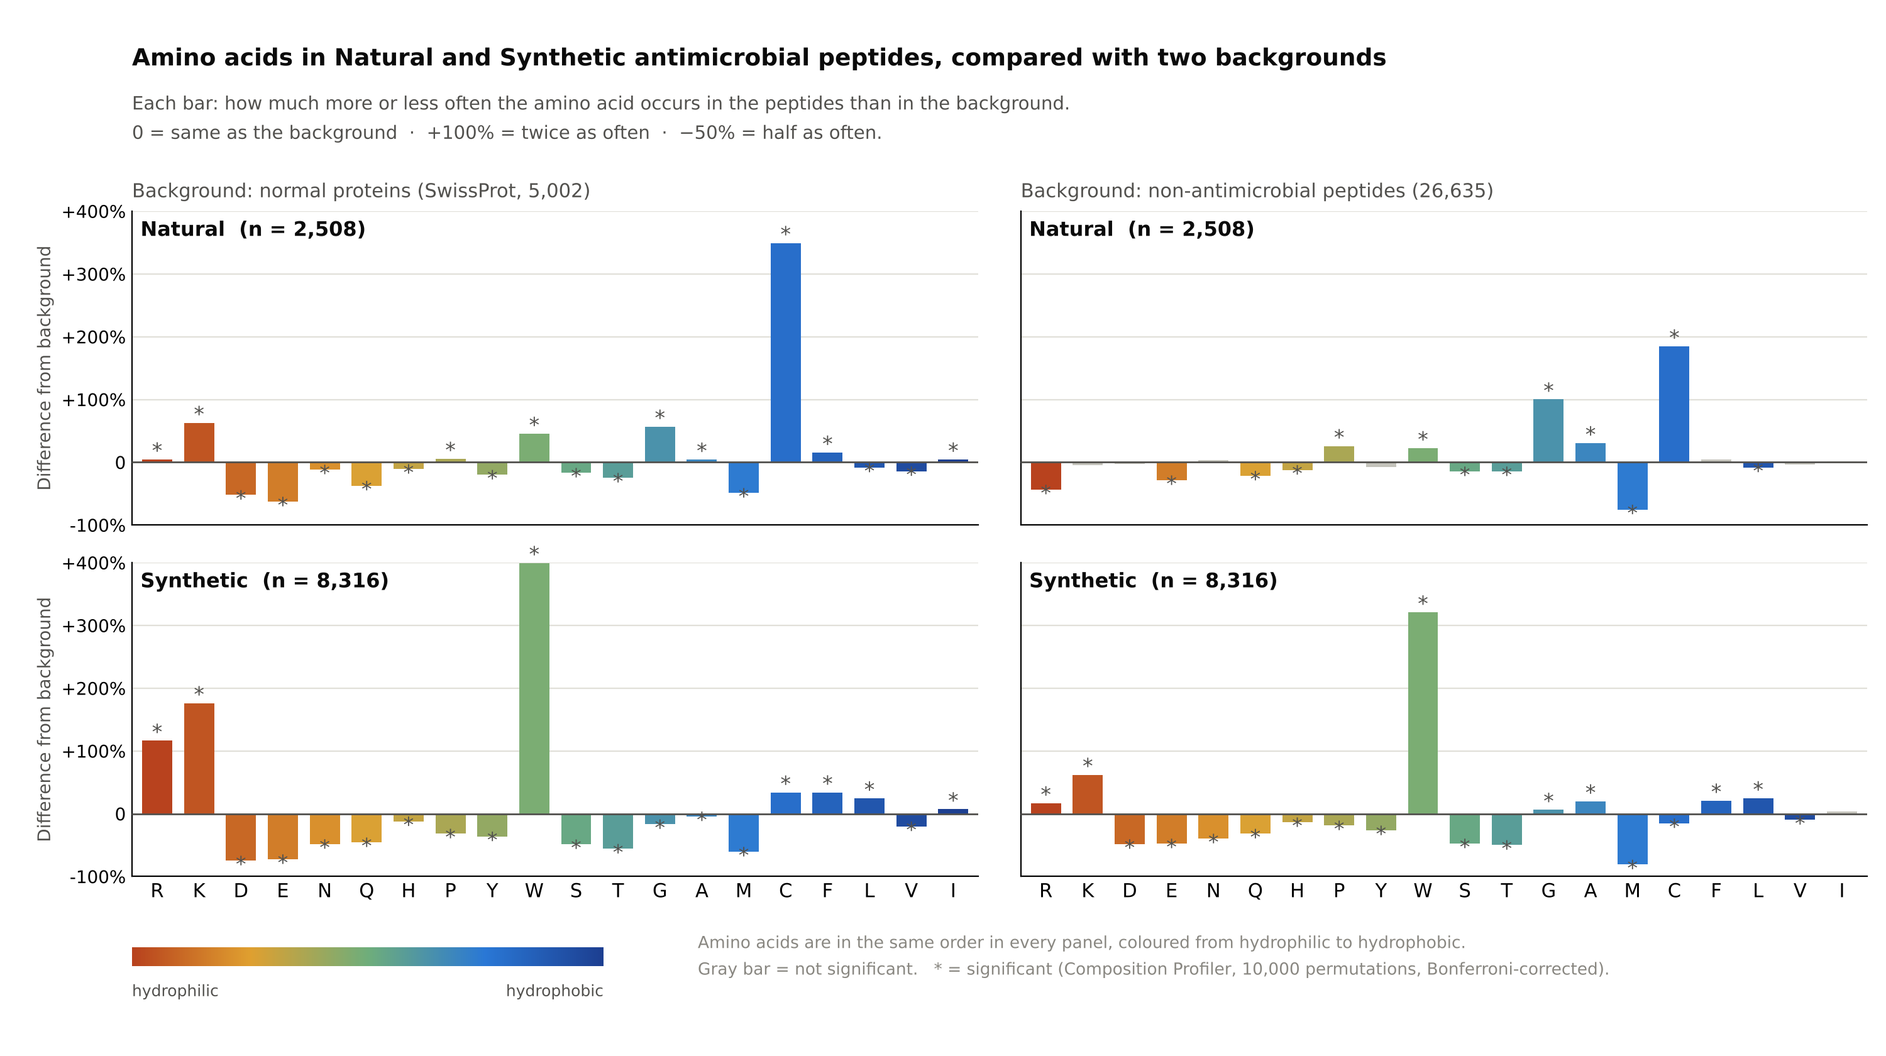
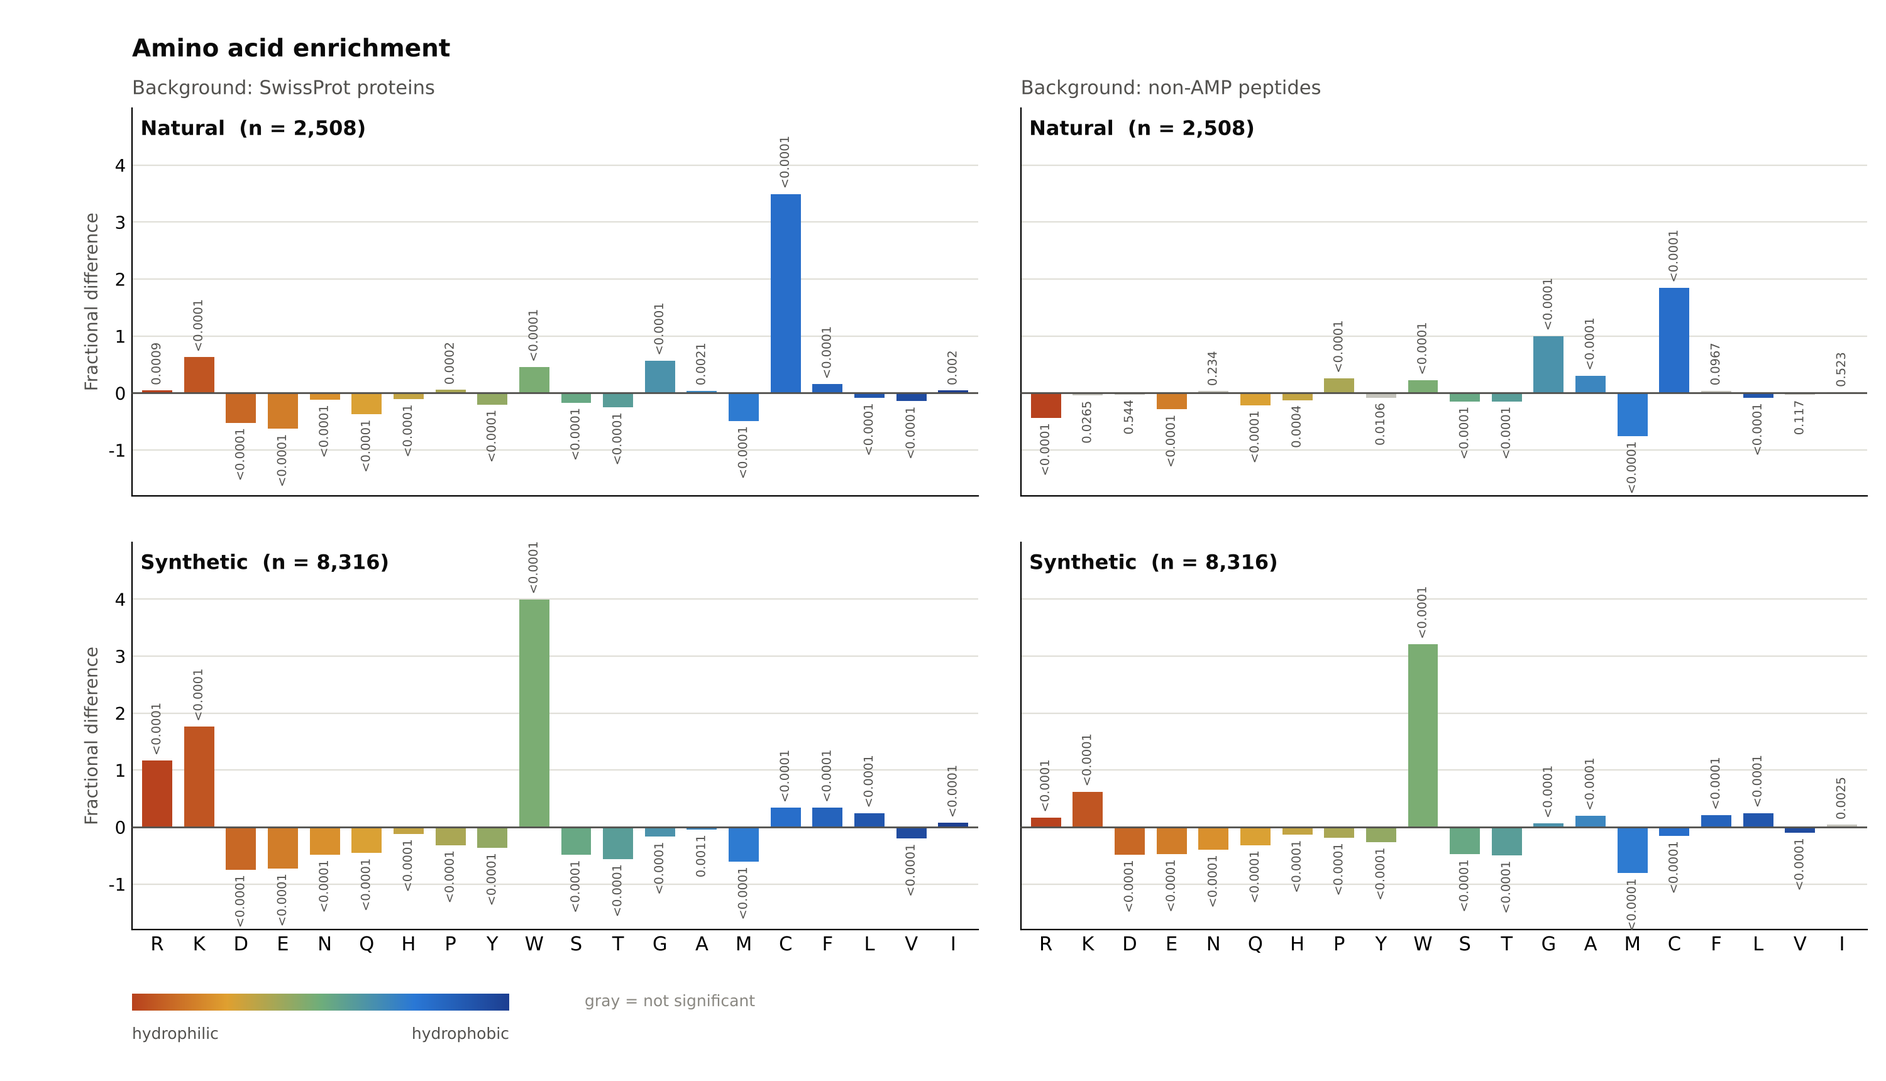
Enrichment figure: p-values, fractional difference axis, simpler headings
- amino acid enrichment figure: the p-value of the Composition Profiler is written at every bar,
  the y axis is the fractional difference (peptides - background) / background instead of a
  percentage, heading only ("Amino acid enrichment"), no subtitle, no footnote, no mention of
  the multiple-testing correction in the figure.
- length figures: simple headings, subtitles and the smooth-line footnote removed.
- README and sequences_lost.xlsx: fractional difference in the table and text; counts of
  former-X peptides in the delivered files (1,075).

Claude-Session: https://claude.ai/code/session_014wtB1icSBmnpkHW4JDxkCH

diff --git a/deliverables/scripts/05_enrichment_figures.py b/deliverables/scripts/05_enrichment_figures.py
@@ -4,10 +4,9 @@ Reads   tables/aa_enrichment.csv
 Writes  figures/amino_acid_enrichment.png   ONE image, four panels with identical axes:
             columns = background (SwissProt proteins | non-AMP peptides), rows = Natural | Synthetic
 
-How to read it: each bar says how much more or less often the amino acid occurs in the antimicrobial peptides than in the
-background, in percent. 0 = same as the background, +100 % = twice as often, -50 % = half as often.
-Amino acids are in one fixed order, hydrophilic -> hydrophobic (Kyte-Doolittle order of the Composition Profiler),
-coloured along that order. Gray = not significant. * = significant (Composition Profiler, Bonferroni alpha = 0.05 / 20).
+Bar height = fractional difference (peptides - background) / background: 0 = same as the background, 1 = twice as often,
+-0.5 = half as often. The number at each bar is the Composition Profiler's p-value. Amino acids are in one fixed order,
+hydrophilic -> hydrophobic (Kyte-Doolittle order of the Composition Profiler), coloured along that order; gray = not significant.
 Usage:  python 05_enrichment_figures.py [table.csv] [output_dir]
 """
 import sys
@@ -35,55 +34,53 @@ t = pd.read_csv(TABLE)
 n_pep = {o: sum(1 for l in open(DELIV / "fasta" / f"amp_{o.lower()}_cdhit90.fasta") if l[0] == ">") for o in ("Natural", "Synthetic")}
 n_bg = {"SwissProt": sum(1 for l in open(DELIV / "background" / "swissprot51_5k.fasta") if l[0] == ">"),
         "Non-AMP": sum(1 for l in open(DELIV / "background" / "pepbench_nonamp_background.fasta") if l[0] == ">")}
-TITLE = {"SwissProt": f"Background: normal proteins (SwissProt, {n_bg['SwissProt']:,})",
-         "Non-AMP": f"Background: non-antimicrobial peptides ({n_bg['Non-AMP']:,})"}
+TITLE = {"SwissProt": "Background: SwissProt proteins", "Non-AMP": "Background: non-AMP peptides"}
 
-top = np.ceil(t["pct_change"].max() / 100) * 100          # same y range in all four panels
-fig, axes = plt.subplots(2, 2, figsize=(15, 8.4), sharex=True, sharey=True)
-fig.subplots_adjust(left=0.07, right=0.99, top=0.80, bottom=0.17, hspace=0.12, wspace=0.05)
+def p_text(p):
+    return "<0.0001" if p == 0 else f"{p:.3g}"
+
+
+top = np.ceil(t["effect"].max()) + 1.0                                  # same y range in all four panels
+bottom = min(np.floor(t["effect"].min()), -1) - 0.8
+fig, axes = plt.subplots(2, 2, figsize=(15, 8.6), sharex=True, sharey=True)
+fig.subplots_adjust(left=0.07, right=0.99, top=0.90, bottom=0.14, hspace=0.12, wspace=0.05)
 for r, origin in enumerate(("Natural", "Synthetic")):
     for c, bg in enumerate(("SwissProt", "Non-AMP")):
         ax = axes[r, c]
         d = t[(t["origin"] == origin) & (t["background"] == bg)].set_index("amino_acid").loc[list(AA_ORDER)]
         for i, (aa, row) in enumerate(d.iterrows()):
             sig = row["result"] != "Not significant"
-            ax.bar(i, row["pct_change"], width=0.72, color=HYDRO(i / 19) if sig else NS_GRAY, zorder=3)
-            if sig:
-                v = row["pct_change"]
-                ax.annotate("*", (i, v), xytext=(0, -2 if v >= 0 else -9), textcoords="offset points", ha="center",
-                            va="bottom", fontsize=12, color=INK2)
+            v = row["effect"]
+            ax.bar(i, v, width=0.72, color=HYDRO(i / 19) if sig else NS_GRAY, zorder=3)
+            ax.annotate(p_text(row["pvalue"]), (i, v), xytext=(0, 3 if v >= 0 else -3), textcoords="offset points",
+                        ha="center", va="bottom" if v >= 0 else "top", rotation=90, fontsize=7, color=INK2)
         ax.axhline(0, color=INK2, linewidth=1, zorder=4)
-        ax.set_ylim(-100, top)
-        ax.set_yticks(np.arange(-100, top + 1, 100))
-        ax.set_yticklabels([f"{v:+.0f}%" if v else "0" for v in np.arange(-100, top + 1, 100)])
+        ax.set_ylim(bottom, top)
+        ticks = np.arange(-1, top, 1)
+        ax.set_yticks(ticks)
+        ax.set_yticklabels([f"{v:g}" for v in ticks])
         ax.set_xlim(-0.6, 19.6)
         ax.grid(axis="y", color=GRID, linewidth=0.8, zorder=0)
-        for s in ("top", "right"):
-            ax.spines[s].set_visible(False)
+        for sp in ("top", "right"):
+            ax.spines[sp].set_visible(False)
         ax.tick_params(length=0)
         ax.text(0.01, 0.97, f"{origin}  (n = {n_pep[origin]:,})", transform=ax.transAxes, ha="left", va="top",
                 fontsize=11.5, fontweight="bold")
         if r == 0:
             ax.set_title(TITLE[bg], loc="left", fontsize=11, color=INK2, pad=8)
         if c == 0:
-            ax.set_ylabel("Difference from background", color=INK2)
+            ax.set_ylabel("Fractional difference", color=INK2)
 for ax in axes[1]:
     ax.set_xticks(range(20))
     ax.set_xticklabels(list(AA_ORDER), fontsize=11)
-fig.text(0.07, 0.955, "Amino acids in Natural and Synthetic antimicrobial peptides, compared with two backgrounds",
-         fontsize=13.5, fontweight="bold", ha="left", va="top")
-fig.text(0.07, 0.915, "Each bar: how much more or less often the amino acid occurs in the peptides than in the background.\n"
-         "0 = same as the background  ·  +100% = twice as often  ·  −50% = half as often.",
-         fontsize=10.5, color=INK2, ha="left", va="top", linespacing=1.6)
-key = fig.add_axes([0.07, 0.085, 0.25, 0.018])
+fig.text(0.07, 0.965, "Amino acid enrichment", fontsize=14, fontweight="bold", ha="left", va="top")
+key = fig.add_axes([0.07, 0.065, 0.20, 0.016])
 key.imshow(np.linspace(0, 1, 256)[None, :], aspect="auto", cmap=HYDRO)
 key.set_xticks([]); key.set_yticks([])
-for s in key.spines.values():
-    s.set_visible(False)
-fig.text(0.07, 0.068, "hydrophilic", fontsize=9, color=INK2, ha="left", va="top")
-fig.text(0.32, 0.068, "hydrophobic", fontsize=9, color=INK2, ha="right", va="top")
-fig.text(0.37, 0.094, "Amino acids are in the same order in every panel, coloured from hydrophilic to hydrophobic.\n"
-         "Gray bar = not significant.   * = significant (Composition Profiler, 10,000 permutations, Bonferroni-corrected).",
-         fontsize=9.5, color=MUTED, ha="left", va="center", linespacing=1.6)
+for sp in key.spines.values():
+    sp.set_visible(False)
+fig.text(0.07, 0.05, "hydrophilic", fontsize=9, color=INK2, ha="left", va="top")
+fig.text(0.27, 0.05, "hydrophobic", fontsize=9, color=INK2, ha="right", va="top")
+fig.text(0.31, 0.073, "gray = not significant", fontsize=9, color=MUTED, ha="left", va="center")
 fig.savefig(OUT / "amino_acid_enrichment.png")
 print(f"figure written to {OUT}")

diff --git a/deliverables/scripts/02_make_figures.py b/deliverables/scripts/02_make_figures.py
@@ -54,9 +54,8 @@ def style_axes(ax):
     ax.tick_params(length=0, labelsize=9)
 
 
-def heading(fig, title, subtitle):
+def heading(fig, title):
     fig.text(0.07, 0.955, title, fontsize=13, fontweight="bold", ha="left", va="top")
-    fig.text(0.07, 0.905, subtitle, fontsize=9.5, color=INK2, ha="left", va="top")
 
 
 # ------------------------------------------------------------------ tables
@@ -91,7 +90,7 @@ def smooth_curve(lengths, x, bandwidth=SMOOTH_BW):
 
 def histogram(filename, as_percent):
     fig, ax = plt.subplots(figsize=(9, 5.2))
-    fig.subplots_adjust(left=0.085, right=0.97, top=0.82, bottom=0.19)
+    fig.subplots_adjust(left=0.085, right=0.97, top=0.90, bottom=0.12)
     bins = np.arange(0.5, HIST_MAX + 1.5, 1)                    # one bin per amino-acid length
     x = np.linspace(0.5, HIST_MAX, 400)
     handles = []
@@ -116,12 +115,7 @@ def histogram(filename, as_percent):
     style_axes(ax)
     ax.legend(*zip(*handles[::-1]), loc="upper right", frameon=False, fontsize=9.5, labelcolor=INK2, handlelength=1.8,
               handler_map={tuple: HandlerTuple(ndivide=None)})
-    fig.text(0.07, 0.03, f"Smooth lines: Gaussian kernel density, bandwidth {SMOOTH_BW:g} aa. "
-             f"Peptides are 3 to {HIST_MAX} aa long (longer ones were removed in the cleaning).",
-             fontsize=8.5, color=MUTED, ha="left", va="bottom", linespacing=1.5)
-    heading(fig, "Peptide length distribution: entire dataset vs Natural vs Synthetic",
-            "DBAASP peptides after CD-HIT (90 % identity). " +
-            ("Each histogram is scaled to 100 % of its own group." if as_percent else "Counts of peptides; the entire dataset is Natural + Synthetic."))
+    heading(fig, "Peptide length distribution")
     fig.savefig(DELIV / "figures" / filename)
     plt.close(fig)
 
@@ -149,7 +143,7 @@ def rounded_top_bar(ax, x0, x1, height, color, radius_pt=3):
 
 def bar_chart(filename):
     fig, ax = plt.subplots(figsize=(9, 5.2))
-    fig.subplots_adjust(left=0.085, right=0.97, top=0.82, bottom=0.17)
+    fig.subplots_adjust(left=0.085, right=0.97, top=0.90, bottom=0.17)
     n_cat = len(CATEGORIES)
     top = np.ceil(max(frac["Natural_fraction"].max(), frac["Synthetic_fraction"].max()) * 100 / 10) * 10
     ax.set_xlim(-0.6, n_cat - 0.4)
@@ -176,8 +170,7 @@ def bar_chart(filename):
     ax.legend([Line2D([], [], marker="s", linestyle="", markersize=8, color=c) for c in (NATURAL, SYNTHETIC)],
               [f"Natural  (n = {n_nat:,})", f"Synthetic  (n = {n_syn:,})"], loc="upper right", frameon=False,
               fontsize=9.5, labelcolor=INK2, handletextpad=0.3)
-    heading(fig, "Natural vs Synthetic peptides across length categories",
-            "Share of each group's peptides after CD-HIT (90 % identity) in each category; each group sums to 100 %.")
+    heading(fig, "Peptide length categories")
     fig.savefig(DELIV / "figures" / filename)
     plt.close(fig)
 

diff --git a/deliverables/README.md b/deliverables/README.md
@@ -33,6 +33,7 @@ deliverables/
 
 * **`X` (non-standard residue)** is no longer kept. Per peptide: if `X` is **30 % or more** of the peptide it is removed (1,214 peptides); below
   that every `X` becomes **Alanine** (2,606 peptides, 4,489 residues, `tables/x_to_alanine_counts.csv`). Peptides made only of `X` were already removed.
+  The counts above are at that step; **in the delivered files 1,075 peptides (251 Natural, 824 Synthetic, 9.9 %) carry a former `X`**, 1,979 residues, at most 29 % of a peptide.
   The 30 % cutoff is my choice (`X_MAX_FRACTION` in script 01); the alternative of converting all `X` would keep peptides that are up to 89 % `X`.
 * **Minimum length:** a peptide needs at least **3 real (non-`X`) amino acids** (`MIN_REAL`); 775 peptides fall below it, including the
   15 single-residue entries. The check runs before `X` becomes Ala.
@@ -41,7 +42,7 @@ deliverables/
   were absorbed into clusters are now kept (and one more changed places through CD-HIT's greedy order), so the total stays 10,824 (2,508 Natural, 8,316 Synthetic).
 * Duplicates are searched **after** `X` -> Ala, because the change can make two peptides identical.
 * Amino acid figure: one image with Natural and Synthetic against **two backgrounds** (SwissProt proteins and non-AMP peptides), identical axes, scale and
-  amino acid order (hydrophilic -> hydrophobic), colour-coded, with the Composition Profiler's significance marked (section 3).
+  amino acid order (hydrophilic -> hydrophobic), colour-coded, with the Composition Profiler's p-value at every bar (section 3).
   Amino acid **groups are no longer tested or drawn**; the Bonferroni correction is now over the 20 amino acids (alpha = 0.05 / 20 = 0.0025).
 
 ## 1. Sequences lost
@@ -107,16 +108,14 @@ Two backgrounds are used, because they answer different questions:
 
 ![amino acid enrichment](figures/amino_acid_enrichment.png)
 
-**How to read the figure.** Every bar is the difference from the background in percent: **0 = same as the background, +100 % = twice as often,
--50 % = half as often.** (The axis is a plain linear percentage; the Composition Profiler's own "effect" is this number divided by 100.)
-**Why a linear percentage axis.** This is the quantity the Composition Profiler itself plots (its bar plot shows the fractional difference
-(query - background) / background on a linear axis, with bootstrap error bars; Vacic et al. 2007, BMC Bioinformatics 8:211, doi:10.1186/1471-2105-8-211),
-and it is what the first analysis of this project (`scripts/06_run_composition_profiler.py`) plotted. The first deliverables figure (Oct 14) used a log2 fold-change axis
-(0.25x ... 4x) instead; that was a design choice of that version, not a project or tool standard, and it has been replaced. One property to keep in mind:
-a percentage is not symmetric, depletion stops at -100 % while enrichment has no limit, so +300 % (4x) and -75 % (0.25x) are the same size of change on a log axis.
+**How to read the figure.** Every bar is the **fractional difference** from the background, (peptides - background) / background: **0 = same as the background,
+1 = twice as often, -0.5 = half as often.** The number at each bar is the Composition Profiler's p-value ("<0.0001" = no random relabeling reached the observed difference).
 The four panels share the same axes and the same amino acid order, so they can be compared directly: rows are Natural and Synthetic, columns are the two backgrounds.
-The amino acids are in the Composition Profiler's Kyte-Doolittle order, hydrophilic (R) to hydrophobic (I), and coloured along it.
-**Gray bar = not significant; `*` = significant.**
+The amino acids are in the Composition Profiler's Kyte-Doolittle order, hydrophilic (R) to hydrophobic (I), and coloured along it. Gray bar = not significant.
+
+This is the quantity the Composition Profiler itself plots (a linear bar plot of the fractional difference with bootstrap error bars; Vacic et al. 2007,
+BMC Bioinformatics 8:211, doi:10.1186/1471-2105-8-211) and what the project's first analysis used. The first deliverables figure (Oct 14) had a log2 fold-change axis instead,
+a design choice of that version. One property to keep in mind: depletion stops at -1 while enrichment has no limit, so a 4x increase (+3) and a 4x decrease (-0.75) look unequal.
 
 **Method** (`scripts/04_aa_enrichment.py` computes, `scripts/05_enrichment_figures.py` draws)
 * Tool: the official Composition Profiler, https://github.com/vvacic/cprofiler (v2.0), the same functions as `cprof discover`; only the 20 amino acids are tested.
@@ -126,52 +125,52 @@ The amino acids are in the Composition Profiler's Kyte-Doolittle order, hydrophi
 * Effect = (frequency in the peptides - frequency in the background) / frequency in the background, residues pooled over all sequences.
 * p-value: 10,000 random relabelings of whole sequences between peptides and background, two-tailed, so the smallest value is 1 / 10,000.
   Significant = p < 0.05 / 20 = 0.0025 (Bonferroni over the 20 amino acids). The seed is fixed, so a re-run gives the same table.
-* `tables/aa_enrichment.csv` has the frequencies, % change, fold change, p-value and result for every combination.
+* `tables/aa_enrichment.csv` has the frequencies, fractional difference (`effect`), p-value and result for every combination.
 
-**Difference from the background, in %** (ns = not significant)
+**Fractional difference from the background** (ns = not significant; p-values are in the figure and in the csv)
 
 | Amino acid | SwissProt, % of residues | Non-AMP, % of residues | Natural vs SwissProt | Synthetic vs SwissProt | Natural vs non-AMP | Synthetic vs non-AMP |
 |---|---|---|---|---|---|---|
-| R | 5.45 | 10.12 | +5% | +116% | -44% | +17% |
-| K | 5.96 | 10.15 | +63% | +176% | -4% (ns) | +62% |
-| D | 5.36 | 2.63 | -52% | -75% | -2% (ns) | -48% |
-| E | 6.68 | 3.49 | -63% | -73% | -29% | -47% |
-| N | 4.12 | 3.53 | -12% | -48% | +3% (ns) | -40% |
-| Q | 3.91 | 3.12 | -37% | -46% | -21% | -32% |
-| H | 2.30 | 2.34 | -11% | -12% | -12% | -14% |
-| P | 4.77 | 4.01 | +6% | -32% | +26% | -19% |
-| Y | 3.06 | 2.66 | -20% | -36% | -8% (ns) | -27% |
-| W | 1.15 | 1.36 | +45% | +400% | +22% | +321% |
-| S | 6.74 | 6.56 | -17% | -49% | -15% | -47% |
-| T | 5.32 | 4.68 | -25% | -56% | -15% | -50% |
-| G | 6.97 | 5.46 | +57% | -17% | +100% | +6% |
-| A | 7.91 | 6.33 | +4% | -4% | +30% | +20% |
-| M | 2.39 | 4.95 | -49% | -61% | -75% | -81% |
-| C | 1.50 | 2.36 | +349% | +34% | +185% | -15% |
-| F | 3.98 | 4.41 | +15% | +34% | +4% (ns) | +21% |
-| L | 9.71 | 9.70 | -8% | +24% | -8% | +25% |
-| V | 6.76 | 5.99 | -14% | -20% | -3% (ns) | -10% |
-| I | 5.98 | 6.16 | +4% | +7% | +1% (ns) | +4% (ns) |
+| R | 5.45 | 10.12 | +0.05 | +1.16 | -0.44 | +0.17 |
+| K | 5.96 | 10.15 | +0.63 | +1.76 | -0.04 (ns) | +0.62 |
+| D | 5.36 | 2.63 | -0.52 | -0.75 | -0.02 (ns) | -0.48 |
+| E | 6.68 | 3.49 | -0.63 | -0.73 | -0.29 | -0.47 |
+| N | 4.12 | 3.53 | -0.12 | -0.48 | +0.03 (ns) | -0.40 |
+| Q | 3.91 | 3.12 | -0.37 | -0.46 | -0.21 | -0.32 |
+| H | 2.30 | 2.34 | -0.11 | -0.12 | -0.12 | -0.14 |
+| P | 4.77 | 4.01 | +0.06 | -0.32 | +0.26 | -0.19 |
+| Y | 3.06 | 2.66 | -0.20 | -0.36 | -0.08 (ns) | -0.27 |
+| W | 1.15 | 1.36 | +0.45 | +4.00 | +0.22 | +3.21 |
+| S | 6.74 | 6.56 | -0.17 | -0.49 | -0.15 | -0.47 |
+| T | 5.32 | 4.68 | -0.25 | -0.56 | -0.15 | -0.50 |
+| G | 6.97 | 5.46 | +0.57 | -0.17 | +1.00 | +0.06 |
+| A | 7.91 | 6.33 | +0.04 | -0.04 | +0.30 | +0.20 |
+| M | 2.39 | 4.95 | -0.49 | -0.61 | -0.75 | -0.81 |
+| C | 1.50 | 2.36 | +3.49 | +0.34 | +1.85 | -0.15 |
+| F | 3.98 | 4.41 | +0.15 | +0.34 | +0.04 (ns) | +0.21 |
+| L | 9.71 | 9.70 | -0.08 | +0.24 | -0.08 | +0.25 |
+| V | 6.76 | 5.99 | -0.14 | -0.20 | -0.03 (ns) | -0.10 |
+| I | 5.98 | 6.16 | +0.04 | +0.07 | +0.01 (ns) | +0.04 (ns) |
 
 **What it shows**
 * **Against ordinary proteins (SwissProt), both datasets look like antimicrobial peptides:** more K, R and W, much less D and E.
-  Synthetic peptides push this much further: Trp +400 %, Lys +176 %, Arg +116 %. Natural peptides: Lys +63 %, Trp +45 %, Arg only +5 %.
-* **Natural peptides are marked by Cys and Gly:** Cys +349 % and Gly +57 % vs SwissProt (consistent with disulfide-rich peptides such as defensins).
-  In Synthetic peptides Cys is +34 % and Gly -17 %.
+  Synthetic peptides push this much further: Trp +4.00, Lys +1.76, Arg +1.16. Natural peptides: Lys +0.63, Trp +0.45, Arg only +0.05.
+* **Natural peptides are marked by Cys and Gly:** Cys +3.49 and Gly +0.57 vs SwissProt (consistent with disulfide-rich peptides such as defensins).
+  In Synthetic peptides Cys is +0.34 and Gly -0.17.
 * **Against non-AMP peptides, the picture changes, and that is the more specific result.**
   The non-AMP peptides are themselves rich in K and R (about 10 % of residues each, against 6 % in SwissProt), so charge alone no longer separates the groups:
-  Natural peptides have *less* Arg (-44 %) and the same Lys (-4 %, ns); only Synthetic peptides keep a Lys excess (+62 %).
-  What stays is **Trp** (Synthetic +321 %, Natural +22 %), the low **Asp/Glu** (Synthetic -48 % / -47 %), low **Met** in both (-75 % / -81 %),
-  and for Natural the **Cys (+185 %) and Gly (+100 %)** excess.
-* **The two datasets go in opposite directions against both backgrounds** for Gly (Natural +57 % / +100 %, Synthetic -17 % / +6 %), Pro (+6 % / +26 % vs -32 % / -19 %)
-  and Cys against non-AMP (+185 % vs -15 %): differences that say something about origin.
-* **Read the size of the bar, not the star.** With thousands of peptides almost everything is significant. Not significant (gray):
-  SwissProt: none (A and I in Natural are only just significant, p about 0.002, with changes of +4 %). Non-AMP, Natural: D, F, I, K, N, V, Y; non-AMP, Synthetic: I.
-  Bars within about +-10 % are negligible whatever the star says.
+  Natural peptides have *less* Arg (-0.44) and the same Lys (-0.04, ns); only Synthetic peptides keep a Lys excess (+0.62).
+  What stays is **Trp** (Synthetic +3.21, Natural +0.22), the low **Asp/Glu** (Synthetic -0.48 / -0.47), low **Met** in both (-0.75 / -0.81),
+  and for Natural the **Cys (+1.85) and Gly (+1.00)** excess.
+* **The two datasets go in opposite directions against both backgrounds** for Gly (Natural +0.57 / +1.00, Synthetic -0.17 / +0.06), Pro (+0.06 / +0.26 vs -0.32 / -0.19)
+  and Cys against non-AMP (+1.85 vs -0.15): differences that say something about origin.
+* **Read the size of the bar, not the p-value.** With thousands of peptides almost everything is significant. Not significant (gray):
+  SwissProt: none (A and I in Natural are only just significant, p about 0.002, with differences of +0.04). Non-AMP, Natural: D, F, I, K, N, V, Y; non-AMP, Synthetic: I.
+  Differences within about +-0.1 are negligible whatever the p-value says.
 
 **Limits**
 * **`X` became Ala in some peptides, which inflates Alanine.** 0.8 % of the Natural and 2.9 % of the Synthetic residues are Ala only because they were `X`.
-  Against SwissProt the Synthetic Ala bar (-4 %) would be about -39 % without them, and the other 19 amino acids are slightly diluted by the same amount. Read the Ala bars with this in mind.
+  Against SwissProt the Synthetic Ala bar (-0.04) would be about -0.39 without them, and the other 19 amino acids are slightly diluted by the same amount. Read the Ala bars with this in mind.
 * **SwissProt is a background of normal, mostly long proteins**; "enriched" there means "different from a typical protein", not "different from a random peptide".
   The release is old (51) and the sample small (5,002 proteins). The earlier check that removed 12 AMP-named proteins from it changed no result (largest effect change 0.006),
   and the non-AMP background now answers the same question more directly, so that table is no longer produced.
